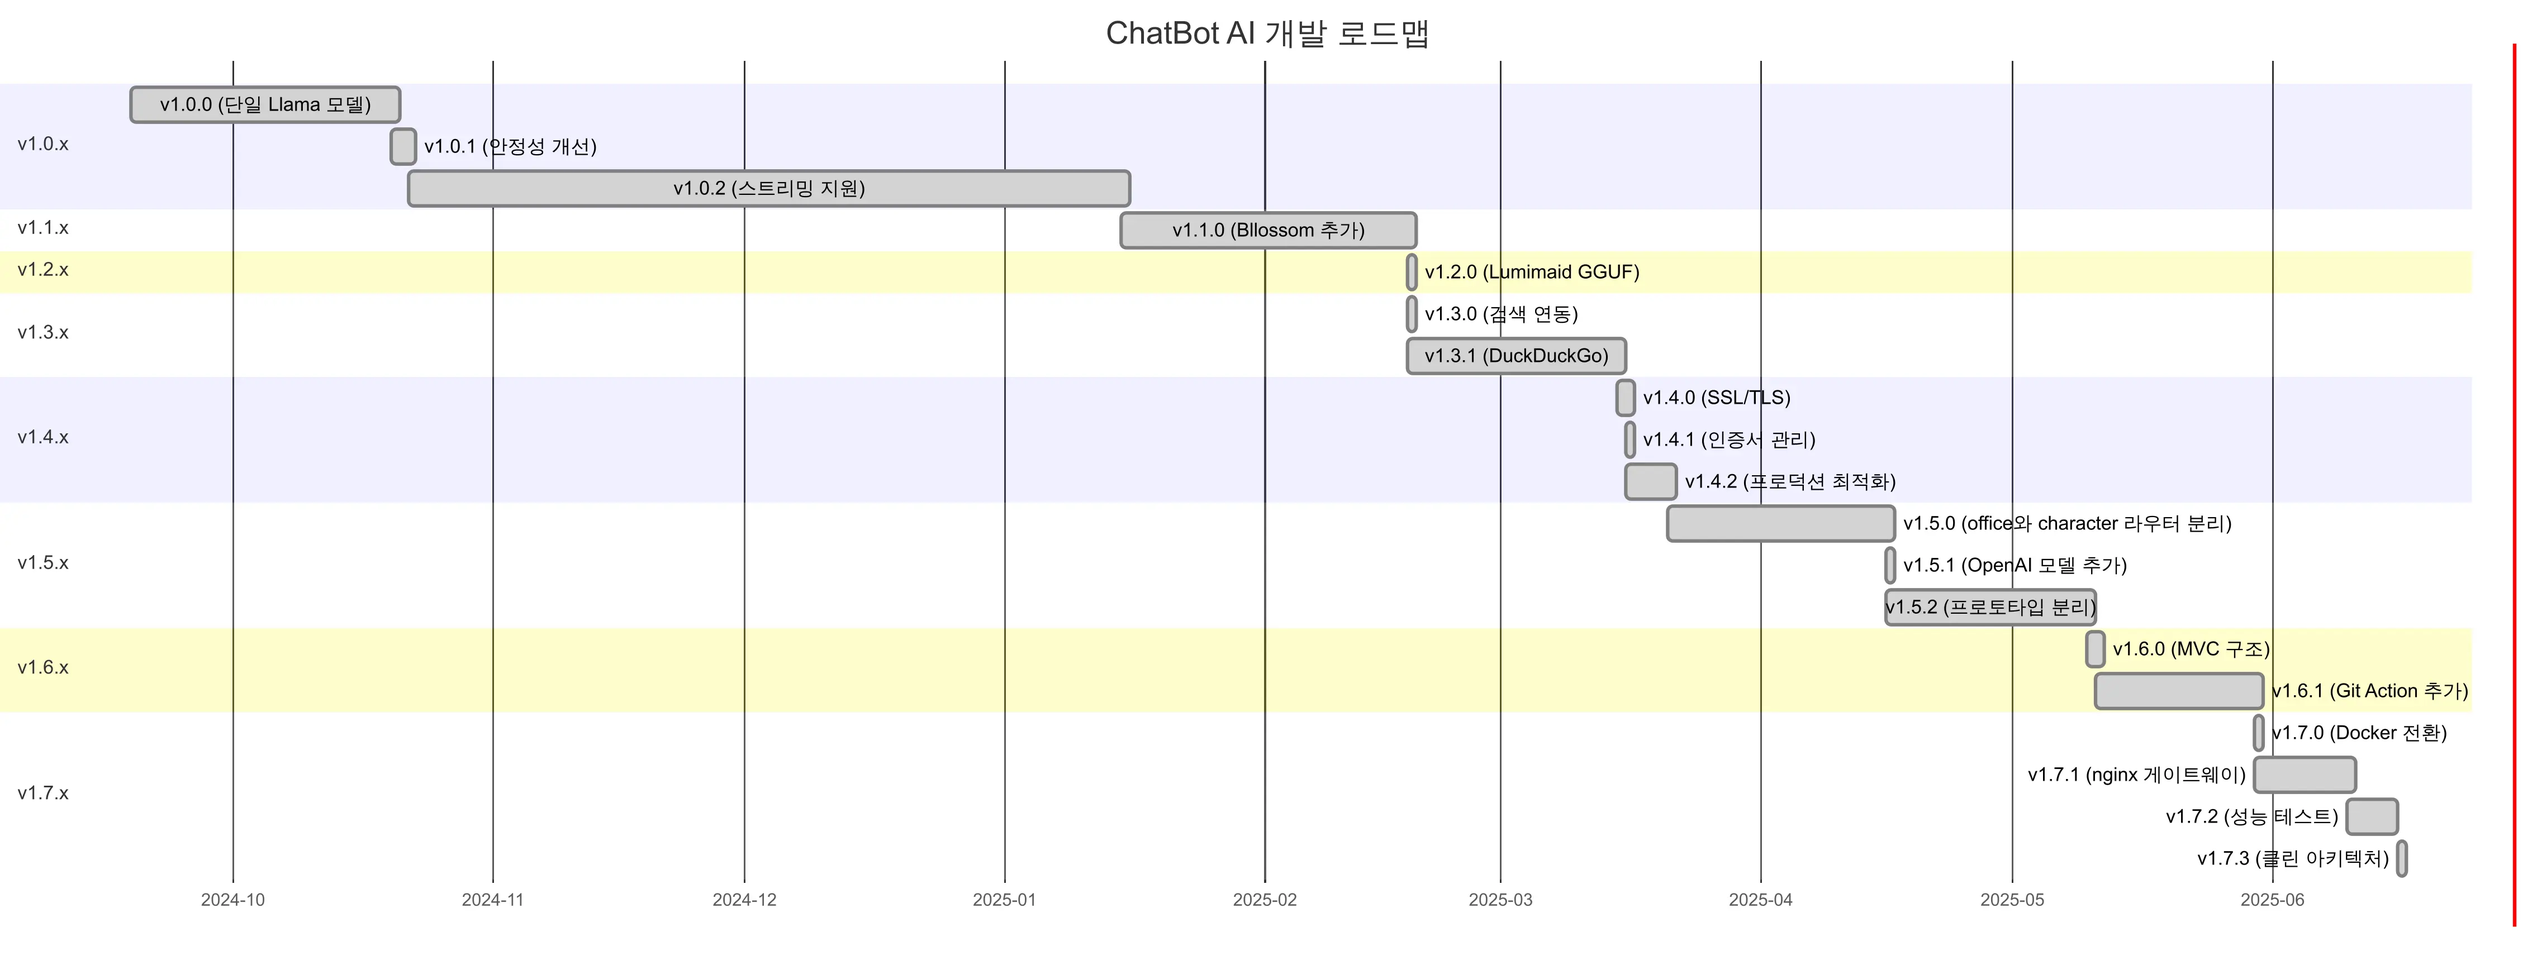
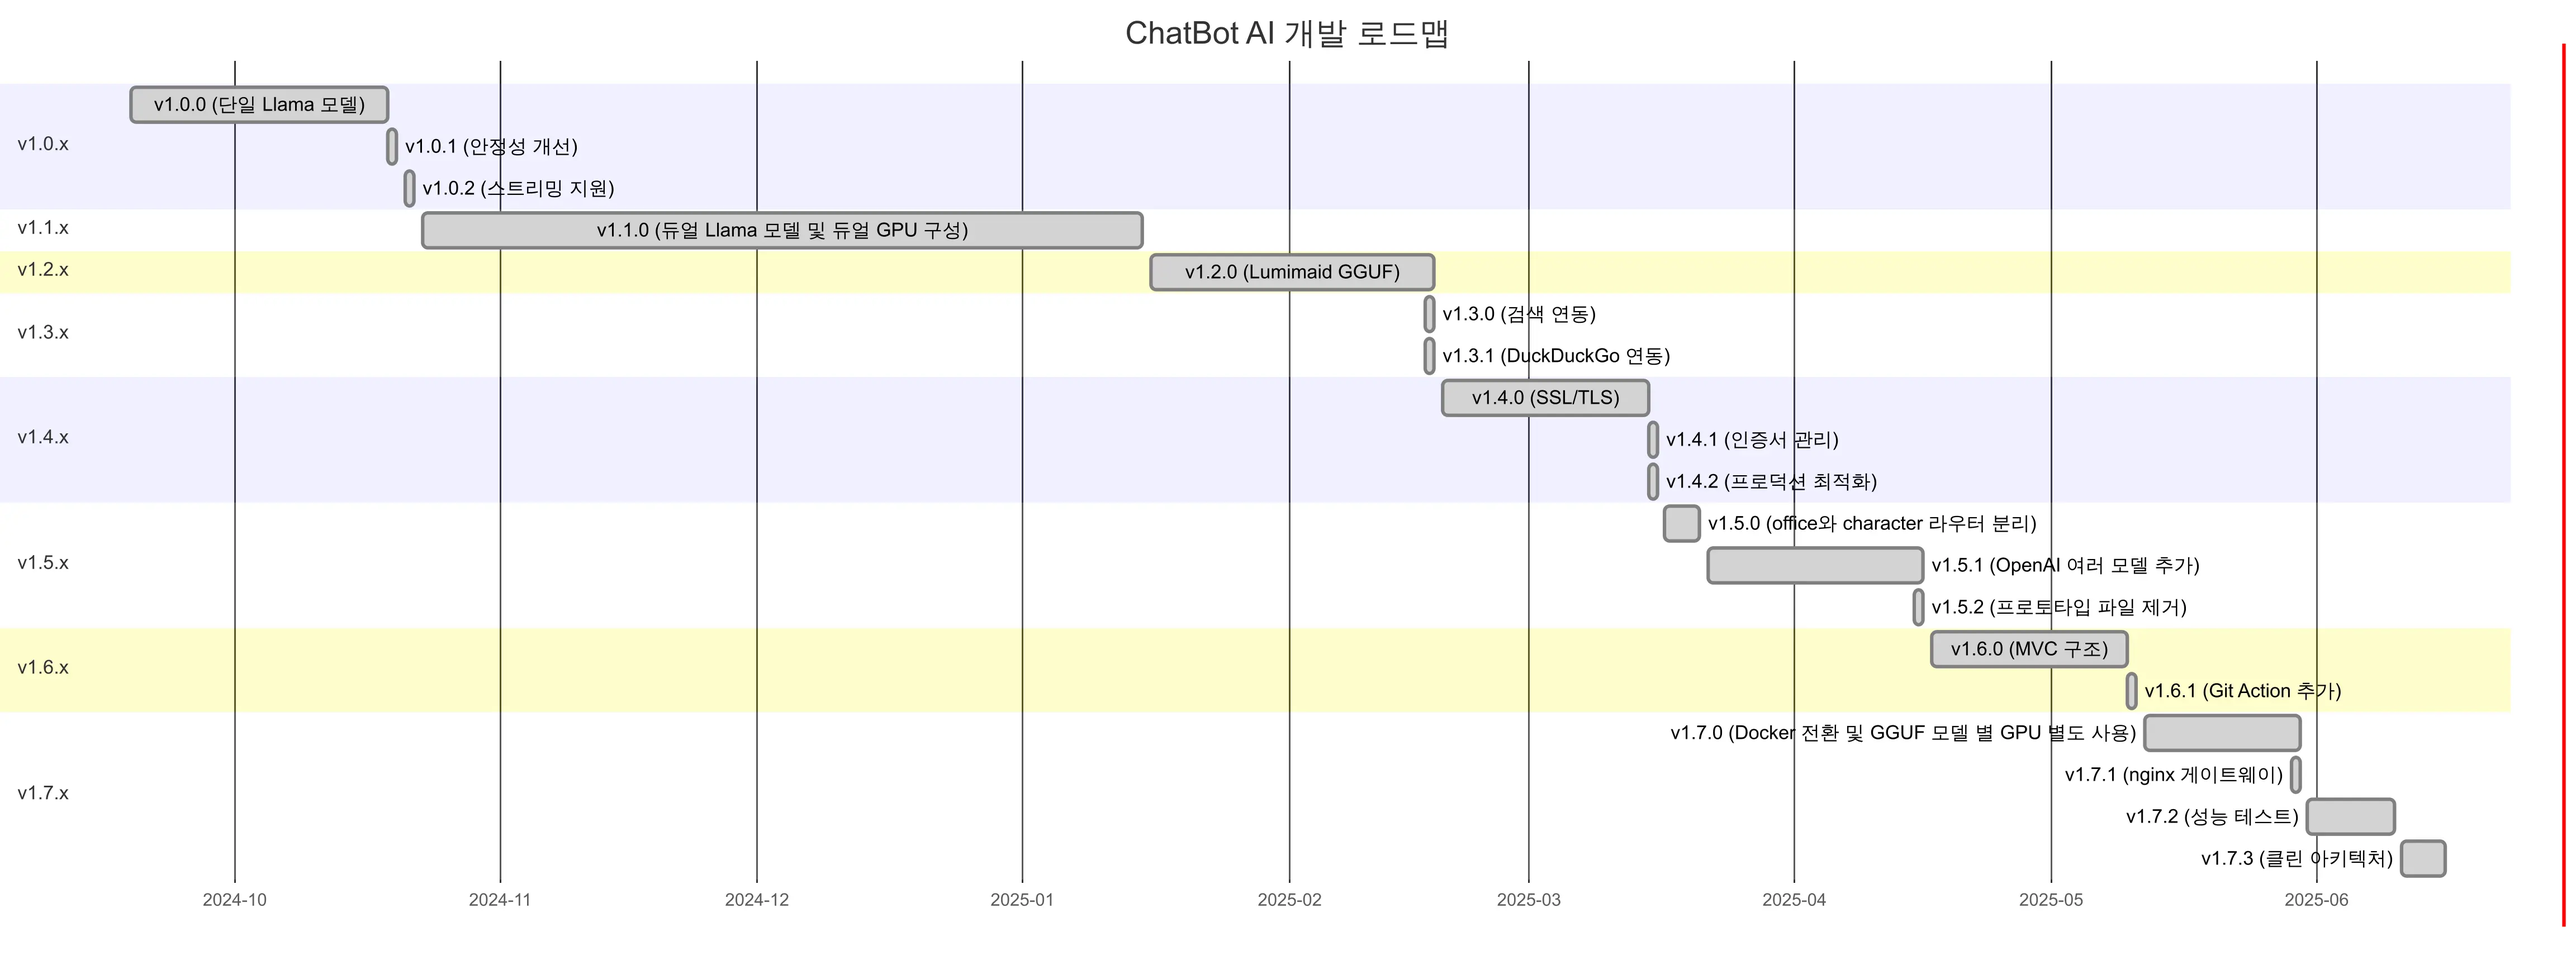
버전 명세서 업데이트 및 불안정 릴리즈 추가

diff --git a/markdown/reference/chatbot-ai/version(1.6.x).md b/markdown/reference/chatbot-ai/version(1.6.x).md
@@ -1,15 +1,15 @@
 # ChatBot AI - 버전 명세서 v1.6.x
 
 ## 개요
-이 문서는 ChatBot AI 시스템의 v1.6.x 계열 버전에 대한 공식 명세서입니다. v1.5.x의 라우터 기반 아키텍처에서 **컨트롤러 패턴 도입**과 **프로덕션 최적화**를 통해 **엔터프라이즈급 구조**로 완전히 전환되었으며, **GitHub Actions CI/CD**, **API 명세서 자동화**, **모듈 분리 최적화**를 도입한 프로덕션 준비 AI 챗봇 서비스입니다.
+이 문서는 ChatBot AI 시스템의 v1.6.x 계열 버전에 대한 공식 명세서입니다. v1.5.x의 라우터 기반 아키텍처에서 **컨트롤러 패턴 도입**과 **프로덕션 최적화**를 통해 **엔터프라이즈급 구조**로 완전히 전환되었으며, **GitHub Actions**, **API 명세서 자동화**, **모듈 분리 최적화**를 도입한 프로덕션 준비 AI 챗봇 서비스입니다.
 
 ## 버전 정보
 
 | 버전 | 릴리즈 날짜 | 커밋 해시 | 상태 |
 |------|-------------|-----------|------|
+| **None** | 2025-05-03 | `11adcd7ee4022e5b3f5b595ff132e02a869c145b` | Unstable |
 | **v1.6.0** | 2025-05-10 | `abf6e1d4667e08418e661bcee41e6fc83cde9922` | Stable |
 | **v1.6.1** | 2025-05-11 | `e93961d80627087bd9f284d52bac1f76d31c5613` | Latest |
-| **None** | 2025-05-16 | `0b5d65da73cae825fbf76e853fce56d86e103ae1` | Unstable |
 
 ## v1.5.x에서 v1.6.x로의 주요 변경사항
 
@@ -24,7 +24,7 @@
 - **공유 상태 관리** 시스템 (`app_state.py`)
 
 ### 개발 환경 혁신
-- **GitHub Actions** CI/CD 파이프라인
+- **GitHub Actions** Docs 자동화 (`update-api-docs.yml`)
 - **자동 API 명세서** 생성 (`api_specification.md`)
 - **프로토타입 정리** (14개 파일 삭제)
 - **라우터 분리** (`office_controller.py`, `character_controller.py`)
@@ -995,7 +995,7 @@ class LlamaCharacterModel:
 
 ### 6. 자동화 시스템 - v1.6.x 신규
 
-#### GitHub Actions CI/CD (update-api-docs.yml)
+#### GitHub Actions (update-api-docs.yml)
 
 API 명세서 자동 업데이트를 위한 GitHub Actions 워크플로우입니다.
 
@@ -1277,19 +1277,6 @@ deep-translator>=1.11.4
 Pillow
 ```
 
-### GitHub 통합 설정
-CI/CD 파이프라인과 자동 문서화를 위한 설정입니다.
-
-```bash
-# GitHub Actions 환경 변수 설정
-OPENAI_API_KEY: ${{ secrets.OPENAI_API_KEY }}
-MONGODB_URI: ${{ secrets.MONGODB_URI }}
-
-# 로컬 개발 환경 설정
-git config core.autocrlf true
-git config push.default current
-```
-
 ## 성능 특성
 
 ### 메모리 사용량
@@ -1345,11 +1332,6 @@ git config push.default current
    - 모델 인스턴스 캐싱
    - 메모리 사용량 모니터링
    - GC 튜닝 적용
-
-3. **CI/CD 최적화**
-   - 캐싱 전략 구현
-   - 병렬 빌드 설정
-   - 조건부 실행 최적화
 
 ## 보안 고려사항
 

diff --git a/markdown/chatbot-ai.md b/markdown/chatbot-ai.md
@@ -32,18 +32,18 @@
 
 | 버전 | 기간 | 주요 성과 | 아키텍처 변화 |
 |------|------|-----------|---------------|
-| **v1.0.x** | 2024.10-2024.12 | 단일 Llama 모델, 스트리밍 지원 | Transformers 기반 스트리밍 |
-| **v1.1.x** | 2025.01-2025.02 | Bllossom 듀얼 모델 도입 | Llama + Bllossom 멀티모델 |
-| **v1.2.x** | 2025.02 | Lumimaid GGUF 전환 | 성능 최적화 (GGUF) |
-| **v1.3.x** | 2025.02-2025.03 | 외부 검색 API 연동 | DuckDuckGo 검색 통합 |
-| **v1.4.x** | 2025.03 | SSL/TLS 보안 강화 | HTTPS 프로덕션 환경 |
-| **v1.5.x** | 2025.03-2025.05 | 라우터 분리, 하이브리드 시스템 | 프로토타입 분리 아키텍처 |
-| **v1.6.x** | 2025.05 | MVC 구조, CI/CD 자동화 | 체계적인 개발 파이프라인 |
+| **v1.0.x** | 2024.09-2024.10 | 단일 Llama 모델, 스트리밍 지원 | Transformers 기반 스트리밍 |
+| **v1.1.x** | 2024.10-2025.01 | 듀얼 GPU 구성, Bllossom 모델 추가 | Llama + Bllossom 멀티모델 |
+| **v1.2.x** | 2025.01-2025.02 | Lumimaid GGUF 전환 | 성능 최적화 (GGUF) |
+| **v1.3.x** | 2025.02 | DuckDuckGo 검색 API 연동 | 외부 검색 통합 |
+| **v1.4.x** | 2025.02-2025.03 | SSL/TLS 보안, 인증서 관리 | HTTPS 프로덕션 환경 |
+| **v1.5.x** | 2025.03-2025.04 | 라우터 분리, OpenAI 모델 추가 | 하이브리드 API 아키텍처 |
+| **v1.6.x** | 2025.04-2025.05 | MVC 구조, GitHub Actions | 체계적인 개발 파이프라인 |
 | **v1.7.x** | 2025.05-2025.06 | Docker 컨테이너화, nginx 게이트웨이 | 마이크로서비스 완성 |
 
 ### 개발 통계
 
-- **총 개발 기간**: 8개월 (2024.10 ~ 2025.06)
+- **총 개발 기간**: 9개월 (2024.09 ~ 2025.06)
 - **메이저 버전**: 8개 (v1.0.x ~ v1.7.x)
 - **릴리즈 횟수**: 20회
 - **주요 기술 전환**: 4회 (단일→듀얼→GGUF→마이크로서비스)

diff --git a/markdown/reference/chatbot-ai/version(1.0.x).md b/markdown/reference/chatbot-ai/version(1.0.x).md
@@ -10,8 +10,6 @@
 | **v1.0.0** | 2024-10-19 | `acfd23b2f0a67f6ae21105c5cd1f838d89a8d752` | Stable |
 | **v1.0.1** | 2024-10-20 | `c4264a2f8f54dc3aef77b54aedc1853989074bc3` | Stable |
 | **v1.0.2** | 2024-10-22 | `3ebe8e2a5edda44b2076937eb484a1f18b889927` | Latest |
-| **None** | 2024-11-16 | `7d02373080f428092ee93138960784a0f91626d1` | Unstable |
-| **None** | 2024-12-16 | `3071c6319a6e96e695d49f111bfbba5aea603f49` | Unstable |
 
 ## 시스템 요구사항
 

diff --git a/markdown/reference/chatbot-ai/version(1.4.x).md b/markdown/reference/chatbot-ai/version(1.4.x).md
@@ -7,6 +7,7 @@
 
 | 버전 | 릴리즈 날짜 | 커밋 해시 | 상태 |
 |------|-------------|-----------|------|
+| **None** | 2025-03-15 | `6d78b2bfcb9d13aad2766baa30acd684da81f973` | Unstable |
 | **v1.4.0** | 2025-03-15 | `6b21d14d683b971698075d6cdb6f9965b7d6d544` | Stable |
 | **v1.4.1** | 2025-03-16 | `bdc9203c1eab1346a6364da201d1628d3ba4804b` | Stable |
 | **v1.4.2** | 2025-03-16 | `912824c0f55f3ef3ea10d3340af538cd7f8845a1` | Latest |

diff --git a/markdown/reference/chatbot-ai/version(1.7.x).md b/markdown/reference/chatbot-ai/version(1.7.x).md
@@ -7,6 +7,7 @@
 
 | 버전 | 릴리즈 날짜 | 커밋 해시 | 상태 |
 |------|-------------|-----------|------|
+| **None** | 2025-05-16 | `0b5d65da73cae825fbf76e853fce56d86e103ae1` | Unstable |
 | **v1.7.0** | 2025-05-30 | `a066bff70648487579f6c95219b42d23552e5501` | Stable |
 | **v1.7.1** | 2025-05-30 | `a0e78809eef728324f9dde17ee7481052cd2fbae` | Stable |
 | **v1.7.2** | 2025-06-10 | `6ed3a4af85834340523085fc4c4e1b1e125a5f4f` | Stable |

diff --git a/markdown/reference/chatbot-ai/version(1.1.x).md b/markdown/reference/chatbot-ai/version(1.1.x).md
@@ -7,6 +7,8 @@
 
 | 버전 | 릴리즈 날짜 | 커밋 해시 | 상태 |
 |------|-------------|-----------|------|
+| **None** | 2024-11-16 | `7d02373080f428092ee93138960784a0f91626d1` | Unstable |
+| **None** | 2024-12-16 | `3071c6319a6e96e695d49f111bfbba5aea603f49` | Unstable |
 | **v1.1.0** | 2025-01-15 | `d014744640fa72366c398541ec9f5b4c7361fd7f` | Latest |
 
 ## v1.0.x에서 v1.1.x로의 주요 변경사항

diff --git a/markdown/reference/chatbot-ai/version(1.5.x).md b/markdown/reference/chatbot-ai/version(1.5.x).md
@@ -10,7 +10,6 @@
 | **v1.5.0** | 2025-03-21 | `e924df6e591ae81cb6718a18eb1ded24c76bc659` | Stable |
 | **v1.5.1** | 2025-04-16 | `682362de5a91d68fe1cd37db38a1184cf958476b` | Stable |
 | **v1.5.2** | 2025-04-16 | `3e0b9525e44f097d91485b718e10ce6073917168` | Latest |
-| **None** | 2025-05-03 | `11adcd7ee4022e5b3f5b595ff132e02a869c145b` | Unstable |
 
 ## v1.4.x에서 v1.5.x로의 주요 변경사항
 

diff --git a/markdown/reference/chatbot-ai/version(1.3.x).md b/markdown/reference/chatbot-ai/version(1.3.x).md
@@ -9,7 +9,6 @@
 |------|-------------|-----------|------|
 | **v1.3.0** | 2025-02-18 | `a1a8067b5175df55789daab8dcf250c95e6d2932` | Stable |
 | **v1.3.1** | 2025-02-18 | `be178f1d87d1508284a425cb3094402804c593b0` | Latest |
-| **None** | 2025-03-15 | `6d78b2bfcb9d13aad2766baa30acd684da81f973` | Unstable |
 
 ## v1.2.x에서 v1.3.x로의 주요 변경사항
 
